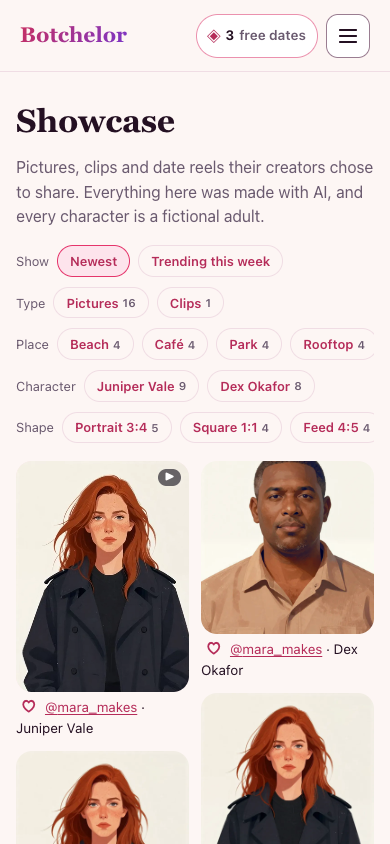
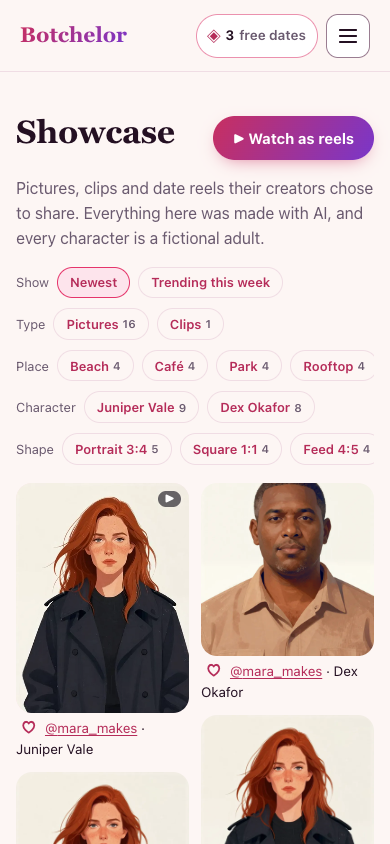
Reels: most liked first (the default was being spread away), cards marked current, proven in a browser
- parseFilters returns `sort: undefined`, so `{sort: "trending", ...f}` lost the default: now
  `{...f, sort: f.sort ?? "trending"}`, with a test that the most liked comes first.
- A card and the end screen say when they're the one on screen (aria-current), like a post.
- npm run screenshots:showcase now covers the reels, desktop and a touch phone: a still moves, ↓ / a swipe goes to
  the next, more load as they go (9 → 18 screens), the clip plays on screen, Juniper's After Dark count shows. It
  browses with a visitor's user agent: lib/bots.ts counts HeadlessChrome as a bot, and a bot gets no count.
- docs/PRDs/showcase.md: the reels, the research and the funnel decision.

Changed region(s): [[0.0308, 0.1232, 0.9846, 0.8318], [0.0308, 0.7393, 0.4923, 1.0], [0.5538, 0.8318, 0.9231, 1.0]]

diff --git a/app/showcase/reels/ReelFeed.tsx b/app/showcase/reels/ReelFeed.tsx
@@ -198,7 +198,7 @@ export default function ReelFeed(props: Props) {
         )}
         {feed.map((x, i) =>
           x.kind === "card" ? (
-            <Card key={`card-${x.n}`} i={i} card={x.card} onNext={() => go(i + 1)} />
+            <Card key={`card-${x.n}`} i={i} card={x.card} active={i === active} onNext={() => go(i + 1)} />
           ) : (
             <Slide
               key={x.post.id}
@@ -217,7 +217,7 @@ export default function ReelFeed(props: Props) {
           ),
         )}
         {!more && feed.length > 0 && (
-          <section className={`${styles.slide} ${styles.card}`} data-i={feed.length} aria-label="The end, for now">
+          <section className={`${styles.slide} ${styles.card}`} data-i={feed.length} aria-label="The end, for now" aria-current={active === feed.length ? "true" : undefined}>
             <div className={styles.cardBody}>
               <h2>That&apos;s everything here, for now</h2>
               <p>New pictures and clips land as their creators publish them.</p>
@@ -364,10 +364,10 @@ const CARDS: Record<ReelCard, { title: string; body: string; cta: string; href: 
   },
 };
 
-function Card({ i, card, onNext }: { i: number; card: ReelCard; onNext: () => void }) {
+function Card({ i, card, active, onNext }: { i: number; card: ReelCard; active: boolean; onNext: () => void }) {
   const c = CARDS[card];
   return (
-    <section className={`${styles.slide} ${styles.card}`} data-i={i} aria-label={c.title}>
+    <section className={`${styles.slide} ${styles.card}`} data-i={i} aria-label={c.title} aria-current={active ? "true" : undefined}>
       <div className={styles.cardBody}>
         <h2>{c.title}</h2>
         <p>{c.body}</p>

diff --git a/tests/showcase-reels.test.ts b/tests/showcase-reels.test.ts
@@ -91,6 +91,10 @@ describe("the reels' posts", () => {
     expect(one.posts.every((p: Post) => p.rating === "pg")).toBe(true);
     // Mara has two after dark (one with the house character), the house character one.
     expect(one.locked).toEqual({ [w.mara]: 2 });
+    // Most liked this week first.
+    const liked = one.posts[3].id;
+    await t.db.query(`insert into showcase_likes (post_id, user_id) values ($1, 'fan-1'), ($1, 'fan-2')`, [liked]);
+    expect((await get("")).posts[0].id).toBe(liked);
     const two = await get("?page=2");
     expect([two.posts.length, two.more]).toEqual([2, false]);
     expect(new Set([...one.posts, ...two.posts].map((p: Post) => p.id)).size).toBe(REEL_PAGE + 2);

diff --git a/app/showcase/reels/page.tsx b/app/showcase/reels/page.tsx
@@ -23,7 +23,7 @@ export default async function ReelsPage({ searchParams }: Props) {
   const viewer = await pageViewer(db);
   const sp = await searchParams;
   const f = parseFilters(sp);
-  const first = await listShowcase(db, viewer, { sort: "trending", ...f, page: 1 }, { pageSize: REEL_PAGE });
+  const first = await listShowcase(db, viewer, { ...f, sort: f.sort ?? "trending", page: 1 }, { pageSize: REEL_PAGE });
   const locked = await afterDarkCounts(db, viewer, first.posts.flatMap((p) => [p.character.id, ...(p.partner ? [p.partner.id] : [])]));
   // The filters as asked (never the page or where to start), for the next pages and the way back.
   const query = reelsQuery(sp).slice(1);

diff --git a/app/api/showcase/reels/route.ts b/app/api/showcase/reels/route.ts
@@ -10,7 +10,8 @@ export const GET = handle(async (req: Request) => {
   const db = await getDb();
   const v = await showcaseViewer(db, req);
   const f = parseFilters(new URL(req.url).searchParams);
-  const r = await listShowcase(db, v, { sort: "trending", ...f }, { pageSize: REEL_PAGE });
+  // Most liked this week first unless asked otherwise (parseFilters leaves `sort` undefined, so it can't be spread over).
+  const r = await listShowcase(db, v, { ...f, sort: f.sort ?? "trending" }, { pageSize: REEL_PAGE });
   const locked = await afterDarkCounts(db, v, r.posts.flatMap((p) => [p.character.id, ...(p.partner ? [p.partner.id] : [])]));
   return json({ ...r, locked });
 });

diff --git a/docs/PRDs/showcase.md b/docs/PRDs/showcase.md
@@ -62,10 +62,52 @@ Every filter is a link, so a filtered view can be shared, and the PG side can be
 | 5 | Publish my best work (the admin's 👍 / 4–5★, own and house characters only) to seed the showcase; filters in every gallery | #946, live |
 | 6 | SFW twins of the best work, for the side everyone sees | #950, live |
 | 7 | How it was made: the model, prompt and characters in the viewer (`lib/showcase-made.ts`); the prompt is the creator's to share | #953, live |
-| 8 | Filters fixed: sides by rating (safe by default), From dates, counts without their own pick, the layout, an admin's re-rate | this PR |
+| 8 | Filters fixed: sides by rating (safe by default), From dates, counts without their own pick, the layout, an admin's re-rate | #956, live |
+| 9 | Clips play on hover (and in view on a phone) | #957 |
+| 10 | Reels: one post a screen, swiped; living photos; a date as the first ask; After Dark's count → the subscription | this PR |
 
 ## Open, for David or counsel
 
 - The legal page and privacy wording for published After Dark work: drafted, for counsel.
 - Whether explicit posts ever go beyond After Dark viewers (never planned).
 - Commercial terms for creators (tips, subscriptions): not in v1.
+
+## Reels and the way in (2026-10-29)
+
+David asked for "an infinite reel / video, scroll-swipe. Like candy.ai has, instagram, ticktock. One idea Similar to
+candy.ai they have a safe image of the person animated with cta to see all there content with a paywall after.
+research a bit and decide what makes sense to get user to buy in."
+
+### What the research said
+- **candy.ai's Shorts** are a vertical feed of short episodic series. The first episode of each plays free; the rest
+  need Premium plus tokens per episode. A tap on a clip opens a chat with that character. In short, the paywall sits
+  on *continuing a story*, not on the feed.
+- **Hard paywalls convert better**, per secondary coverage of RevenueCat's 2026 State of Subscription Apps: about
+  10.7% against 2.1% for freemium by day 35. Twelve-month retention is about the same either way. For companion-shaped
+  products the advice is a hybrid: free to look, pay to go further.
+
+### What we do, and why
+- **The feed stays free and open**, as the top of the funnel. Gating it would cost visitors and shares, and nothing
+  people pay for here is in the feed. David's call for the creator suite also stands: delight, no pressure. So no
+  countdowns, no streaks, and nothing locked that's on the showcase already.
+- **What people pay for is going further with a character.** That's our version of candy.ai's "episode 2", and it's
+  already built:
+  - **💘 Date them** is the first ask on every post. It leads to the character's page, where a date is booked: the
+    first dates are free, then token packs (Stripe, live).
+  - **See all of them** opens their showcase.
+  - **"🌙 N more of them after dark"** shows only for someone After Dark isn't open to. It's a count, never a picture.
+    It leads to After Dark's subscription page, which is the waitlist until the processor and age checks exist. So
+    it doubles as a $0 demand test for After Dark.
+- **A card every 6 posts:** make your own character, or After Dark (for someone who can't see it).
+- **The living photo is David's "safe image of the person animated"**, at $0: each still moves slowly, a different
+  camera move each time.
+- **Measured:** `reel_cta` conversions with `cta` = date / see_all / after_dark / create, in Vercel Analytics and GA4.
+  We can see which ask works before changing any of them.
+
+### Next, for David
+- **Real animated clips of the safe pictures** (image to video, then the PG check on its frames).
+  - Cost: about $0.05 at 480p or $0.11 at 720p a clip on Replicate's Wan 2.2. For the 62 PG posts that's about $3–7.
+    Venice's Wan is also an option.
+  - Needs David's OK: it's spend.
+- **The After Dark subscription** opens only with its processor (Segpay or Verotel) and counsel. Until then the
+  waitlist counts who wants it.
